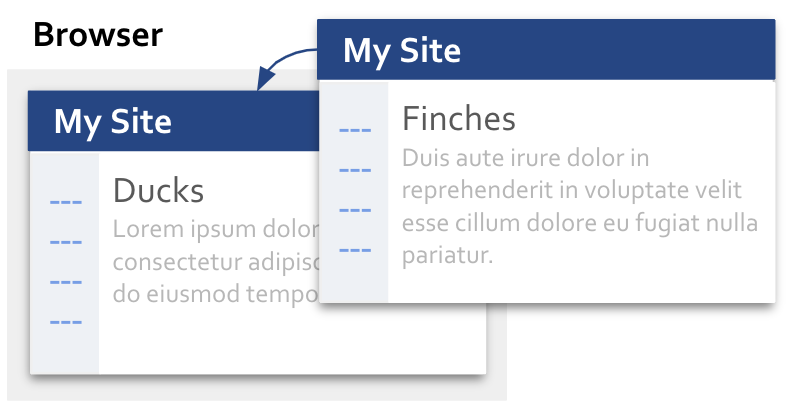
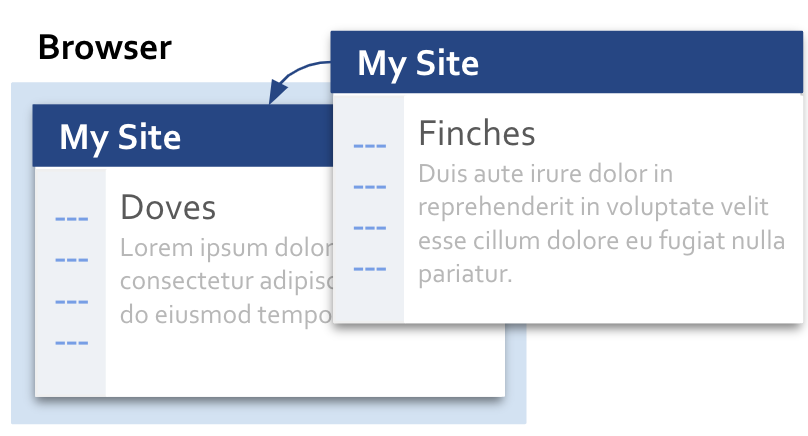
Writing the HHPress page.

Changed region(s): [[0.0, 0.0293, 1.0, 0.9951], [0.0305, 0.0585, 0.2132, 0.1463], [0.9746, 0.7317, 1.0, 0.761]]

diff --git a/en/website/hhpress/index.md b/en/website/hhpress/index.md
@@ -6,61 +6,162 @@ menuItem: mi-website
 
 # HHPress
 
-HHPress is a platform for building websites sourced from markdown files.
+This page provides an overview of HHPress, a platform for building developer portals sourced from markdown files.
 
 # Why HHPress?
 
 Like similar platforms, HHPress includes a generator that transforms markdown into html:
 
-<div><img src="md-to-html.png" class="img-fluid d-block" width=609 height=135 loading="lazy"></div>
+<p><img src="md-to-html.png" class="img-fluid d-block" width=609 height=135 loading="lazy"></p>
 
-Most other generators transform markdown files into complete webpages:
+Most other generators, however, transform markdown files into complete webpages:
 
-<div><img src="md-to-webpage.png" class="img-fluid d-block" width=633 height=224 loading="lazy"></div>
+<p><img src="md-to-webpage.png" class="img-fluid d-block" width=633 height=224 loading="lazy"></p>
 
-Browsers load these webpages in their entirety even if they contain parts identical to those on the current webpage. In the following diagram, for example, the _Finches_ webpage contains the same header and sidebar as the _Ducks_ webpage it is replacing:
+Browsers load these webpages in their entirety even if they contain parts identical to those on the current webpage. In the following diagram, for example, the _Finches_ webpage replaces the entire _Doves_ webpage even though they both share the same header and sidebar:
 
-<div><img src="load-webpage.png" class="img-fluid d-block" width=380 height=198 loading="lazy"></div>
+<p><img src="load-webpage.png" class="img-fluid d-block" width=380 height=205 loading="lazy"></p>
 
-This approach degrades sidebar usability. Consider the following diagram:
+This approach reduces sidebar usability. Consider the following diagram:
 
-<div><img src="parts-of-webpage.png" class="img-fluid d-block" width=480 height=345 loading="lazy"></div>
+<p><img src="parts-of-webpage.png" class="img-fluid d-block" width=480 height=353 loading="lazy"></p>
 
-There are two types of sidebars: bookbars and OTPs. An OTP contains links to headings in the already loaded main content area (referred to as the _page_ which is distinct from the entire webpage). Clicking a link in the OTP does not generate a request for a new webpage. 
+Note the two types of sidebars in the diagram above: OTP (On This Page) and bookbar. An OTP contains links to headings in the already loaded _page_ (i.e. main content area as opposed to the entire webpage). Clicking a link in the OTP scrolls the page to the specified heading without  generating a request for a new webpage. 
 
-A bookbar, on the other hand, contains links to multiple pages. So, for example, when a user expands Mammals, scrolls down past Alpaca, Honey Badger, and Rabbit, and clicks on Sea Otter, if the requested webpage was made by a traditional generator, the browser will overwrite all parts of the Finches webpage with the Sea Otter webpage, destroying the state of the current bookbar in the process.
+A bookbar, on the other hand, contains links to multiple webpages. So, for example, if a user were to expand Mammals, scroll down past Alpaca, Honey Badger, and Rabbit, and click on Sea Otter, given that the requested webpage was made by a traditional generator, the browser would overwrite all parts of the Finches webpage (header, bookbar, page, and OTP) with the newly downloaded Sea Otter webpage, destroying the state of the current bookbar in the process. 
 
-This annoys me, so I created HHPress in which the generator and the client-side JavaScript module work together (as described below) to maintain the state of the bookbar on page loads.
+HHPress loads only the parts of a newly requested webpage that are not already loaded and displayed in the browser. In this case, HHPress would load the page and OTP (see the maroon box in the diagram above) without overwriting the header or bookbar.
 
-# Folder structure
+# Folders
 
-Lorem ipsum dolor sit amet, consectetur adipiscing elit, sed do eiusmod tempor incididunt ut labore et dolore magna aliqua. Ut enim ad minim veniam, quis nostrud exercitation ullamco laboris nisi ut aliquip ex ea commodo consequat. Duis aute irure dolor in reprehenderit in voluptate velit esse cillum dolore eu fugiat nulla pariatur. Excepteur sint occaecat cupidatat non proident, sunt in culpa qui officia deserunt mollit anim id est laborum.
+Cloning HHPress results in the following folder structure:
 
-<div><img src="folders-all.png" class="img-fluid d-block" width=180 loading="lazy"></div>
+<p><img src="folders.png" class="img-fluid d-block" width=600 loading="lazy"></p>
 
-Lorem ipsum dolor sit amet, consectetur adipiscing elit, sed do eiusmod tempor incididunt ut labore et dolore magna aliqua. Ut enim ad minim veniam, quis nostrud exercitation ullamco laboris nisi ut aliquip ex ea commodo consequat. Duis aute irure dolor in reprehenderit in voluptate velit esse cillum dolore eu fugiat nulla pariatur. Excepteur sint occaecat cupidatat non proident, sunt in culpa qui officia deserunt mollit anim id est laborum.
+You can add a folder for each human language you want to support:
 
-## Markdown
+<p><img src="folders-languages.png" class="img-fluid d-block" width=170 loading="lazy"></p>
 
-Lorem ipsum dolor sit amet, consectetur adipiscing elit, sed do eiusmod tempor incididunt ut labore et dolore magna aliqua. Ut enim ad minim veniam, quis nostrud exercitation ullamco laboris nisi ut aliquip ex ea commodo consequat. Duis aute irure dolor in reprehenderit in voluptate velit esse cillum dolore eu fugiat nulla pariatur. Excepteur sint occaecat cupidatat non proident, sunt in culpa qui officia deserunt mollit anim id est laborum.
+Below is the folder structure (with only the _en_ language folder) uploaded to a web server:
 
-<div><img src="folders-en.png" class="img-fluid d-block" width=180 loading="lazy"></div>
+<p><img src="folders-uploaded.png" class="img-fluid d-block" width=170 loading="lazy"></p>
 
-Lorem ipsum dolor sit amet, consectetur adipiscing elit, sed do eiusmod tempor incididunt ut labore et dolore magna aliqua. Ut enim ad minim veniam, quis nostrud exercitation ullamco laboris nisi ut aliquip ex ea commodo consequat. Duis aute irure dolor in reprehenderit in voluptate velit esse cillum dolore eu fugiat nulla pariatur. Excepteur sint occaecat cupidatat non proident, sunt in culpa qui officia deserunt mollit anim id est laborum.
+# Markdown
 
-## Generator
+HHPress supports [Github Markdown](https://docs.github.com/en/get-started/writing-on-github/getting-started-with-writing-and-formatting-on-github/basic-writing-and-formatting-syntax). The [demo-page](/en/demo-page/) demonstrates how to create paragraphs, lists, code snippets, images, videos, and more. All source markdown files are named _index.md_, and they reside in folders:
 
-Lorem ipsum dolor sit amet, consectetur adipiscing elit, sed do eiusmod tempor incididunt ut labore et dolore magna aliqua. Ut enim ad minim veniam, quis nostrud exercitation ullamco laboris nisi ut aliquip ex ea commodo consequat. Duis aute irure dolor in reprehenderit in voluptate velit esse cillum dolore eu fugiat nulla pariatur. Excepteur sint occaecat cupidatat non proident, sunt in culpa qui officia deserunt mollit anim id est laborum.
+<p><img src="md-in-folder.png" class="img-fluid d-block" width=170 loading="lazy"></p>
 
-<div><img src="folders-tools.png" class="img-fluid d-block" width=180 loading="lazy"></div>
+Together, each folder and index.md file represent a page and OTP:
 
-Lorem ipsum dolor sit amet, consectetur adipiscing elit, sed do eiusmod tempor incididunt ut labore et dolore magna aliqua. Ut enim ad minim veniam, quis nostrud exercitation ullamco laboris nisi ut aliquip ex ea commodo consequat. Duis aute irure dolor in reprehenderit in voluptate velit esse cillum dolore eu fugiat nulla pariatur. Excepteur sint occaecat cupidatat non proident, sunt in culpa qui officia deserunt mollit anim id est laborum.
+<p><img src="page-and-otp.png" class="img-fluid d-block" width=480 height=290 loading="lazy"></p>
 
-## Assets
+Books are nested folders:
 
-Lorem ipsum dolor sit amet, consectetur adipiscing elit, sed do eiusmod tempor incididunt ut labore et dolore magna aliqua. Ut enim ad minim veniam, quis nostrud exercitation ullamco laboris nisi ut aliquip ex ea commodo consequat. Duis aute irure dolor in reprehenderit in voluptate velit esse cillum dolore eu fugiat nulla pariatur. Excepteur sint occaecat cupidatat non proident, sunt in culpa qui officia deserunt mollit anim id est laborum.
+<p><img src="folders-book.png" class="img-fluid d-block" width=560 loading="lazy"></p>
 
-<div><img src="folders-assets.png" class="img-fluid d-block" width=180 loading="lazy"></div>
+Folder names appear in urls:
 
-Lorem ipsum dolor sit amet, consectetur adipiscing elit, sed do eiusmod tempor incididunt ut labore et dolore magna aliqua. Ut enim ad minim veniam, quis nostrud exercitation ullamco laboris nisi ut aliquip ex ea commodo consequat. Duis aute irure dolor in reprehenderit in voluptate velit esse cillum dolore eu fugiat nulla pariatur. Excepteur sint occaecat cupidatat non proident, sunt in culpa qui officia deserunt mollit anim id est laborum.
+``` nonum 
+/en/home
+/en/demo-page
+/en/demo-book/amphibians/frogs
+```
 
+# Base
+
+The _base.html_ file is the core of an HHPress webapp. It specifies the visual layout, provides standard behaviors (e.g. responsiveness, collapsability, scrollability), and references third-party dependencies (e.g. axios-http, Bootstrap, and Fontawesome):
+
+<p><img src="base-layout.png" class="img-fluid d-block" width=500 loading="lazy"></p>
+
+>The HHPress Generator converts `/en/base.html` into `/en/index.html`. See below.
+
+# Generator
+
+The HHPress Generator resides in the _tools_ folder:
+
+<p><img src="folders-tools.png" class="img-fluid d-block" width=160 height=164 loading="lazy"></p>
+
+It runs in a Node.js environment:
+
+``` nonum bash
+node tools/generator.js -h
+Options:
+  -h, --help      Show help.  [boolean]
+      --version   Show version number  [boolean]
+  -d, --dir       Specify dirpath.  [string] [default: ""]
+  -e, --edit      Add edit button to page.  [boolean] [default: true]
+  -l, --language  Specify language (e.g. en, zh).  [string] [default: "en"]
+  -r, --refresh   Add refresh button to page.  [boolean] [default: true]
+  -t, --type      Specify file type.  [string] [required] [choices: "all", "base", "book", "css", "folder", "folders", "js"]
+```
+
+Below are three example commands. The first converts base.html to index.html, the second converts the index.md file in the `en/home` folder to a set of output files, and the third builds all destination files from source files:
+
+``` nonum bash
+node tools/generator.js -t base
+node tools/generator.js -t folder -d en/home
+node tools/generator.js -t all
+```
+
+As mentioned, the generator transforms markdown into html:
+
+<p><img src="md-to-html.png" class="img-fluid d-block" width=609 height=135 loading="lazy"></p>
+
+But the generator does not convert _index.md_ files into standard _index.html_ files. Instead, for each _index.md_ file, the generator outputs the following:
+
+<p><img src="md-to-many.png" class="img-fluid d-block" width=300 height=167 loading="lazy"></p>
+
+Each is described below:
+
+**index.html**
+
+This is not a file, but a symbolic link to `/en/index.html`, itself transformed from `/en/base.html`.
+
+**page.html**
+
+This file contains the contents of the _index.md_ file transformed into html.
+
+**otp.html**
+
+This file contains a list of links to the `<h1>` and `<h2>` tags in _page.html_. Here is an example:
+
+``` nonum html
+<ul>
+  <li class="dynamic"><a href="#hhpress">HHPress</a></li>
+  <li class="dynamic"><a href="#why-hhpress">Why HHPress?</a></li>
+  <li class="dynamic"><a href="#folder-structure">Folder structure</a></li>
+  <li class="dynamic"><a href="#markdown">Markdown</a></li>
+  <li class="dynamic"><a href="#base">Base</a></li>
+  <li class="dynamic"><a href="#generator">Generator</a></li>
+  <li class="dynamic"><a href="#assets">Assets</a></li>
+</ul>
+```
+
+**config.json**
+
+This file contains page-specific configuration information used by the HHPress `scripts.js` file to make decisions when loading the page. Here is an example:
+
+``` nonum
+{
+  "author": "Matthew J. Hagen",
+  "background": "white",
+  "bookPath": "en/website",
+  "bookTitle": "Website",
+  "chapters": null,
+  "hasOtp": true,
+  "hasCustomBase": false,
+  "hasEditBtn": true,
+  "hasPageHeader": true,
+  "hasPageScrollbar": true,
+  "hasRefreshBtn": true,
+  "hhdatalist": "v0.0.2",
+  "menuItem": "mi-website",
+  "pages": null,
+  "pathname": "/Users/matt/github/hagenhaus-com/en/website/hhpress",
+  "publishedDate": null,
+  "title": "HHPress"
+}
+```
+
+# Loading pages

diff --git a/en/test/index.md b/en/test/index.md
@@ -1,0 +1,7 @@
+# Test
+
+Lorem ipsum dolor sit amet, consectetur adipiscing elit, sed do eiusmod tempor incididunt ut labore et dolore magna aliqua. Ut enim ad minim veniam, quis nostrud exercitation ullamco laboris nisi ut aliquip ex ea commodo consequat. Duis aute irure dolor in reprehenderit in voluptate velit esse cillum dolore eu fugiat nulla pariatur. Excepteur sint occaecat cupidatat non proident, sunt in culpa qui officia deserunt mollit anim id est laborum.
+
+Sed ut perspiciatis unde omnis iste natus error sit voluptatem accusantium doloremque laudantium, totam rem aperiam, eaque ipsa quae ab illo inventore veritatis et quasi architecto beatae vitae dicta sunt explicabo. Nemo enim ipsam voluptatem quia voluptas sit aspernatur aut odit aut fugit, sed quia consequuntur magni dolores eos qui ratione voluptatem sequi nesciunt. Neque porro quisquam est, qui dolorem ipsum quia dolor sit amet, consectetur, adipisci velit, sed quia non numquam eius modi tempora incidunt ut labore et dolore magnam aliquam quaerat voluptatem. Ut enim ad minima veniam, quis nostrum exercitationem ullam corporis suscipit laboriosam, nisi ut aliquid ex ea commodi consequatur? Quis autem vel eum iure reprehenderit qui in ea voluptate velit esse quam nihil molestiae consequatur, vel illum qui dolorem eum fugiat quo voluptas nulla pariatur.
+
+At vero eos et accusamus et iusto odio dignissimos ducimus qui blanditiis praesentium voluptatum deleniti atque corrupti quos dolores et quas molestias excepturi sint occaecati cupiditate non provident, similique sunt in culpa qui officia deserunt mollitia animi, id est laborum et dolorum fuga. Et harum quidem rerum facilis est et expedita distinctio. Nam libero tempore, cum soluta nobis est eligendi optio cumque nihil impedit quo minus id quod maxime placeat facere possimus, omnis voluptas assumenda est, omnis dolor repellendus. Temporibus autem quibusdam et aut officiis debitis aut rerum necessitatibus saepe eveniet ut et voluptates repudiandae sint et molestiae non recusandae. Itaque earum rerum hic tenetur a sapiente delectus, ut aut reiciendis voluptatibus maiores alias consequatur aut perferendis doloribus asperiores repellat.

diff --git a/en/website/index.md b/en/website/index.md
@@ -25,7 +25,7 @@ In the diagram above, the website in the Browser box is the sum of many parts. S
 
 1. **Hagenhaus Files** include mostly html files and image files. The HHPress Generator converts markdown files like [this](https://github.com/hagenhaus/hagenhaus-com/blob/master/en/website/index.md) to these html files.
 
-1. **HHPress Files** include template html files, a CSS file, and a JS file. I created HHPress, a responsive Jamstack that also includes the HHPress Generator mentioned above. While it does not leverage [Angular](https://angular.dev/), [React](https://react.dev/), or [Vue](https://vuejs.org/), it does utilize a simple, unique technique for loading only page sections that are not already loaded. [Learn more](hhpress/).
+1. **HHPress Files** include template html files, a CSS file, and a JS file. I created HHPress, a responsive website platform that also includes the HHPress Generator mentioned above. While HHPress does not leverage [Angular](https://angular.dev/), [React](https://react.dev/), or [Vue](https://vuejs.org/), it does utilize a simple, unique technique for loading only page sections that are not already loaded. [Learn more](hhpress/).
 
 1. **HHDataList Files** include a CSS file and a handful of JS files. I created HHDataList, a UI component that access data from any REST API and display it on a page using an html `<div>` tag and a configurable JS object like this:
 

diff --git a/en/services/index.md b/en/services/index.md
@@ -46,7 +46,7 @@ Working with your team, I can establish a developer portal, organize it, create 
 
 * Using the [ReadMe](https://readme.com/) developer hub, I created the [ReadyRemit Developer Portal](https://developer.readyremit.com/) and all the original content for [Brightwell](https://www.brightwell.com/), a fintech company that makes a cross-border payment platform.
 
-* I created hagenhaus.com including a custom JamStack, UI Component, REST API, API server, and database. See [Website](/en/website/).
+* I created hagenhaus.com including a website platform, UI Component, REST API, API server, and database. See [Website](/en/website/).
 
 ## Training content and delivery
 

diff --git a/en/demo-page/index.md b/en/demo-page/index.md
@@ -2,9 +2,6 @@
 
 This page helps you compare rendered html to source markdown. To view the Github Flavored Markdown (GFM) source file for this page, click the pencil icon above which opens a new browser tab. Then, on the new tab, click the "Edit this file" pencil icon. Now, you can compare what you see on this page to what the page author wrote in the source markdown.
 
-https://github.com/mdn/js-examples/blob/main/module-examples/basic-modules/main.js
-https://raw.githubusercontent.com/mdn/js-examples/refs/heads/main/module-examples/basic-modules/main.js
-
 # Code Snippets
 
 Code snippets have the following boolean characteristics:

diff --git a/en/demo-book/amphibians/frogs/index.md b/en/demo-book/amphibians/frogs/index.md
@@ -1,3 +1,7 @@
+---
+author: ''
+---
+
 # Frogs
 
 Lorem ipsum dolor sit amet, consectetur adipiscing elit, sed do eiusmod tempor incididunt ut labore et dolore magna aliqua. Ut enim ad minim veniam, quis nostrud exercitation ullamco laboris nisi ut aliquip ex ea commodo consequat. Duis aute irure dolor in reprehenderit in voluptate velit esse cillum dolore eu fugiat nulla pariatur. Excepteur sint occaecat cupidatat non proident, sunt in culpa qui officia deserunt mollit anim id est laborum.
